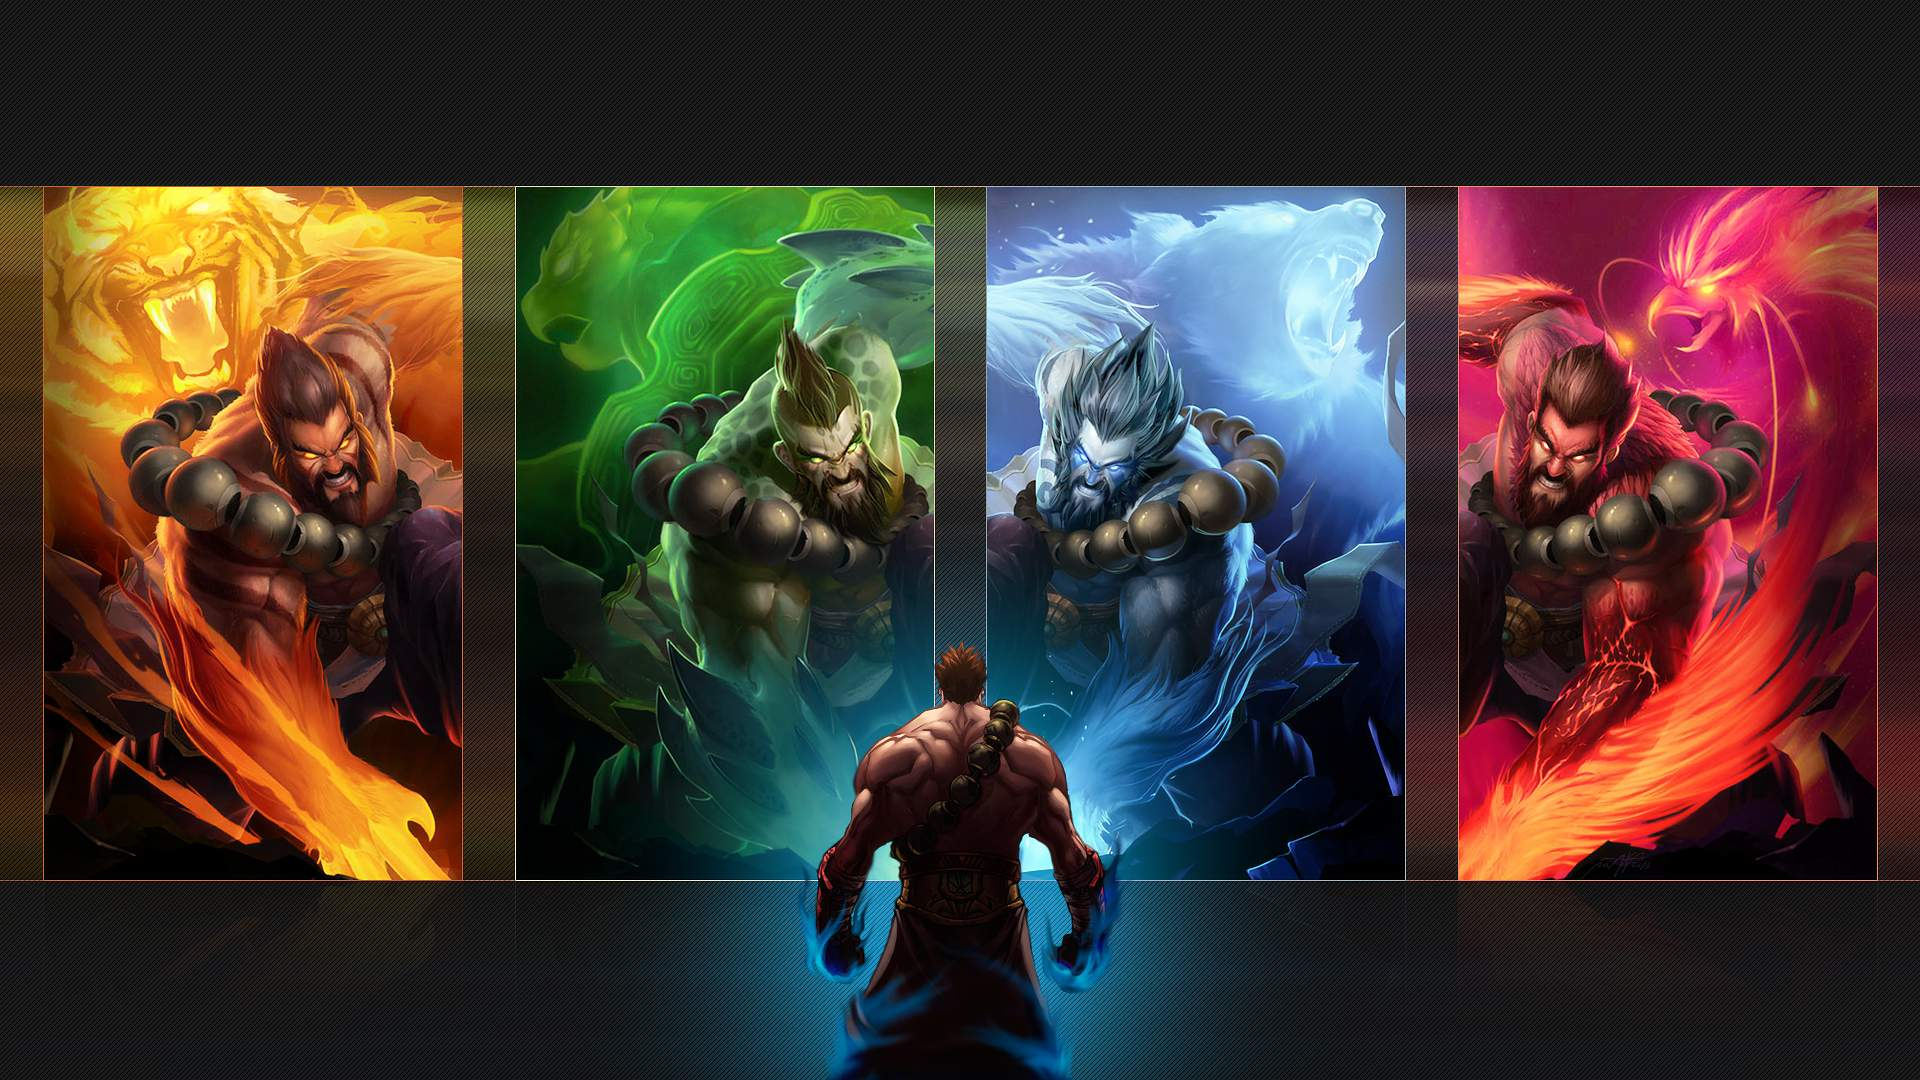
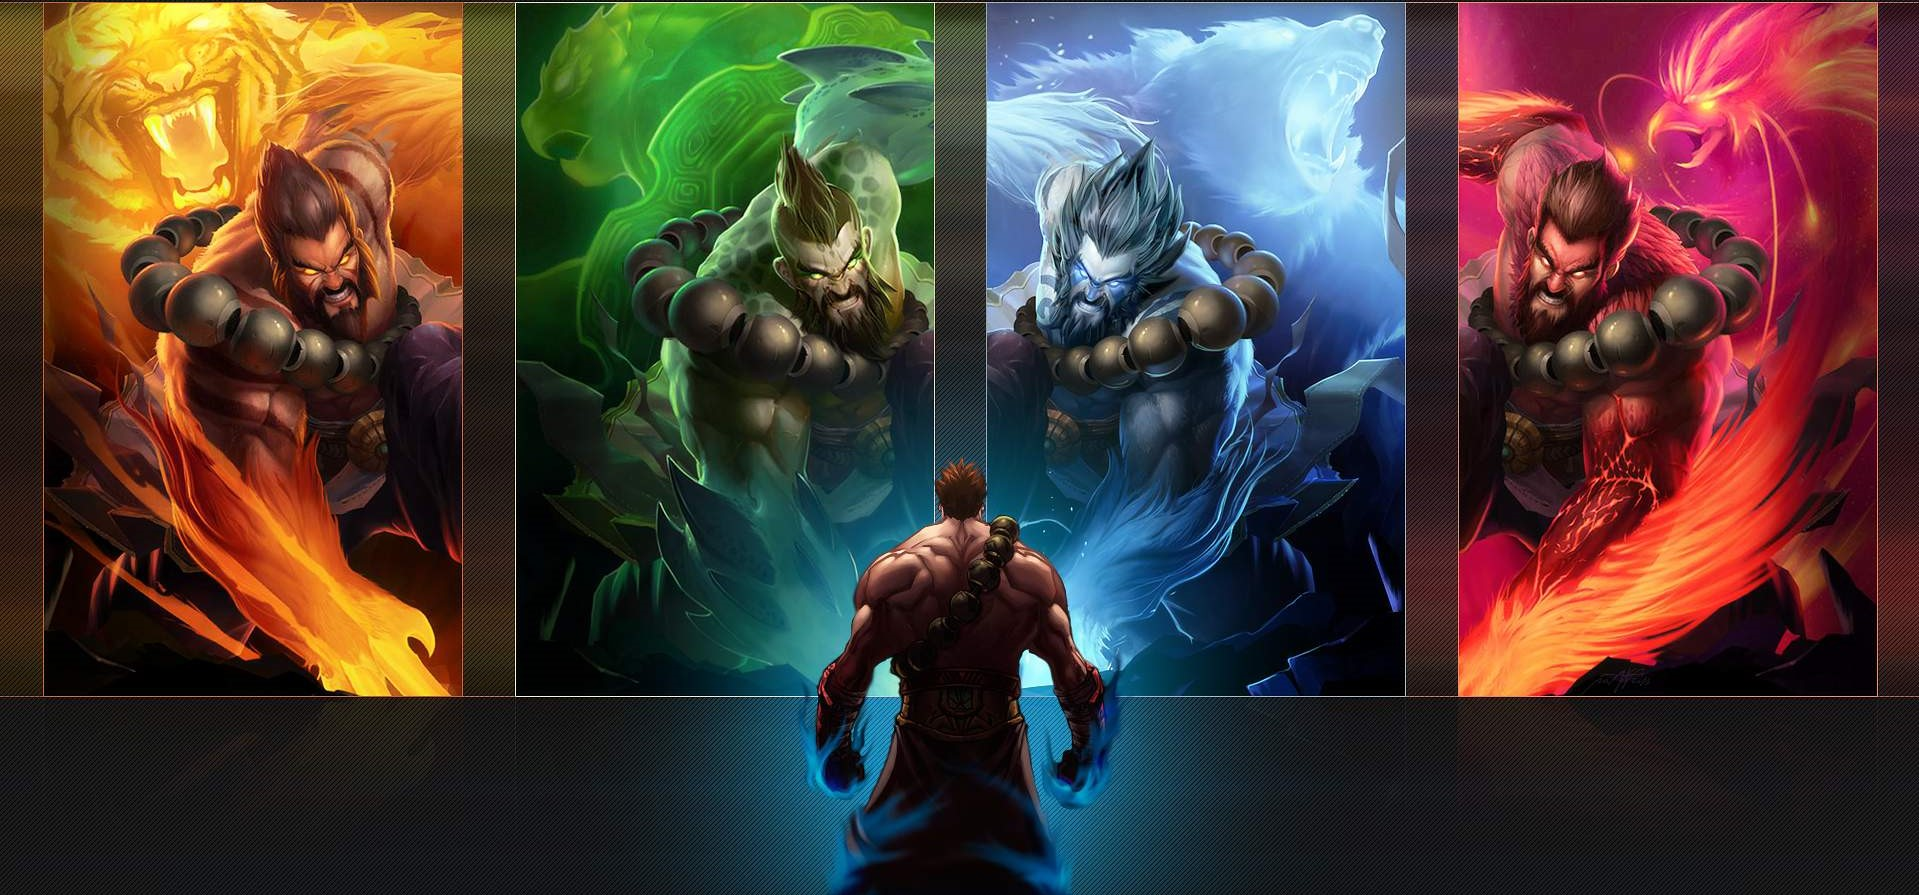
added footer + font awesome

diff --git a/src/Components/fotter.css b/src/Components/fotter.css
@@ -1,0 +1,151 @@
+*{
+    margin: 0;
+    padding: 0;
+    box-sizing: border-box;
+    font-family: 'Poppins',sans-serif;
+}
+.footer-all{
+    display: flex;
+    justify-content: flex-end;
+    align-items: center;
+    flex-direction: column;
+    background: coral;
+}
+footer{
+    position: relative;
+    width: 100%;
+    height: auto;
+    padding: 50px 100px;
+    background: linear-gradient( rgba(0, 0, 0, 0.5), rgba(0, 0, 0, 0.5) ), url('img/img1.jpg');
+background-position: center;
+background-size: cover;
+    display: flex;
+    justify-content: space-between;
+    flex-wrap: wrap;
+}
+footer .container{
+    display: flex;
+    justify-content: space-between;
+    flex-wrap: wrap;
+    flex-direction: row;
+
+}
+footer .container .aboutus{
+    margin-right: 30px;
+}
+footer .container .aboutus{
+    width: 40%;
+}
+footer .container  h2{
+    position: relative;
+    color: rgb(0, 217, 255);
+    font-weight: 500;
+    margin-bottom: 15px;
+}
+footer h2::before{
+    content: '';
+    position: absolute;
+    bottom: -5px;
+    left: 0;
+    width: 50px;
+    height: 2px;
+    background: cyan;
+}
+footer p{
+    color: rgb(255, 255, 255);
+}
+.sci{
+    margin-top: 20px;
+    display: flex;
+}
+.sci li{
+    list-style: none;
+}
+.sci li a{
+    color: rgb(253, 253, 253);
+    display: inline-block;
+    width: 40px;
+    height: 40px;
+    background: rgb(255, 255, 255);
+    display: flex;
+    justify-content: center;
+    align-items: center;
+    margin-right: 10px;
+    text-decoration: none;
+    border-radius: 4px;
+}
+.sci li a:hover{
+    background: rgb(0, 252, 218);
+}
+
+.sci li a .fa{
+    color: rgb(255, 5, 5);
+    font-size: 25px;
+}
+.quicklinks{
+    position: relative;
+    width: 25%;
+
+}
+.quicklinks ul li{
+    list-style: none;
+}
+.quicklinks ul li a{
+    color: rgb(255, 255, 255);
+    text-decoration: none;
+    margin-bottom: 10px;
+    display: inline-block;
+}
+.quicklinks ul li a:hover{
+    color: rgb(255, 121, 121);
+}
+
+.contact-info{
+    width: calc(35% -60px);
+    margin-right: 0 !important;
+}
+.contact-info .info{
+position: relative;
+}
+
+.contact-info .info li{
+    display: flex;
+    margin-bottom: 16px;
+}
+
+.contact-info .info li span:nth-child(1){
+    color: rgb(255, 0, 0);
+    font-size: 20px;
+    margin-right: 10px;
+}
+
+.contact-info .info li span{
+    color: rgb(255, 211, 255);
+}
+
+@media (max-width:900px) {
+    footer{
+        padding: 30px;
+
+    }
+    footer .container{
+        flex-direction: column;
+    }
+    footer .container .aboutus
+    {
+        margin-right: 0;
+        margin-bottom: 30px;
+        width: 100%;
+    }
+    footer .container .aboutus,
+    .quicklinks{
+        width: 100%;
+    }
+    
+}
+@media (max-width:1326px) {
+    .contact-info{
+        margin-top: 30px !important;
+    }
+    
+}

diff --git a/src/Components/Fotter.js b/src/Components/Fotter.js
@@ -1,0 +1,64 @@
+import React from 'react'
+import "./fotter.css"
+function Fotter() {
+    return (
+        <div className="footer-all">
+        <footer>
+            <div className="container">
+                <div className="aboutus">
+                    <h2>About us</h2>
+                    <p>
+
+                    Hey varun,
+                    Hope you had a great start to the week. We wanted to take some time to 
+                    let you know of a great opportunity to not only learn but earn and excel
+                    while working on tech that's the talk of the town. Over the past few months,
+                    rypto has seen a meteoric rise in mainstream consciousness but with surprisingly 
+                    few opportunities for interested folks to break into it. This makes us all the more
+                    </p>
+                    <ul className="sci">
+                    <li><a href="#"><i class="fa fa-youtube-play fa-lg" aria-hidden="true"></i></a></li>
+                    <li><a href="#"><i class="fa fa-handshake-o fa-lg" aria-hidden="true"></i></a></li>
+                    <li><a href="#"><i class="fa fa-facebook fa-lg" aria-hidden="true"></i></a></li>
+                    <li><a href="#"><i class="fa fa-instagram fa-lg" aria-hidden="true"></i></a></li>
+                    <li><a href="#"><i class="fa fa-twitter fa-lg" aria-hidden="true"></i></a></li>
+                    </ul>
+                </div>
+                <div className="quicklinks">
+                <h2>Quick Links</h2>
+                <ul>
+                    <li><a href="#">About</a></li>
+                    <li><a href="#">FAQ</a></li>
+                    <li><a href="#">PRIVACY POLICY</a></li>
+                    <li><a href="#">TERMS & CONDITION</a></li>
+                    <li><a href="#">CONTACT</a></li>
+                    <li><a href="#">HELP</a></li>
+                </ul>
+
+                </div>
+                <div className="contact-info">
+                    <h2>Contact us</h2>
+                    <ul className="info">
+                    <li>
+                        <span><i class="fa fa-map-marker" aria-hidden="true"></i></span>
+                        <span>Manhattan, located at 200 Park Avenue </span>
+                    </li>
+                    <li>
+                        <span><i class="fa fa-envelope-o" aria-hidden="true"></i></span>
+                        <span>Riotgamer@gmail.com</span>
+                    </li>
+                    <li>
+                        <span><i class="fa fa-phone" aria-hidden="true"></i></span>
+                        <span>+11 9878 7768 44</span>
+                    </li>
+
+                    </ul>
+                </div>
+            </div>
+
+        </footer>
+        </div>
+    )
+}
+
+export default Fotter

diff --git a/src/Components/style.css b/src/Components/style.css
@@ -93,7 +93,9 @@ background-position: center;
 
 /* AFTER THIS IS VANILLA TILT EFFECT */
 .backg-events{
-  background-image:url("./img/watchdogsgroup.jpg");
+  /* background-image:url("./img/watchdogsgroup.jpg"); */
+  background: linear-gradient( rgba(0, 0, 0, 0.5), rgba(0, 0, 0, 0.5) ), url('img/watchdogsgroup.jpg');
+
   background-size:cover;
   max-width:100vw;
   height:100vh
@@ -152,7 +154,7 @@ background-position: center;
     border-left: 1px solid rgba(255, 255, 255, 0.5);
     backdrop-filter: blur(3px);
     background-position: center;
-    opacity: .7;
+    opacity: .9;
   }
   .container .card:hover{
     z-index: 3;

diff --git a/public/index.html b/public/index.html
@@ -9,8 +9,8 @@
       name="description"
       content="Web site created using create-react-app"
     />
-    <link rel="apple-touch-icon" href="%PUBLIC_URL%/logo192.png" />
-
+   <link rel="apple-touch-icon" href="%PUBLIC_URL%/logo192.png" />
+   <link rel="stylesheet" href="https://cdnjs.cloudflare.com/ajax/libs/font-awesome/4.7.0/css/font-awesome.min.css">
     <link rel="manifest" href="%PUBLIC_URL%/manifest.json" />
     <title>RIOT</title>
     <script src="https://code.jquery.com/jquery-2.2.4.min.js"></script>

diff --git a/src/App.js b/src/App.js
@@ -3,8 +3,8 @@ import Login from './Components/Login';
 // import Navbar from './Components/Navbar';
 import News from './Components/News';
 import Events from './Components/Events';
-import './Components/style.css';
 
+import Fotter from './Components/Fotter';
 function App() {
   return (
     <div className="App">
@@ -14,6 +14,7 @@ function App() {
     <Events/>
     <News/>
     <Login/>
+    <Fotter/>
     </div>
   );
 }

diff --git a/src/Components/Login.js b/src/Components/Login.js
@@ -1,6 +1,7 @@
 import React from 'react';
 import multi1 from './img/multi1.jpg';
 // MATERIAL-UI IS REMOVED = PAPER, MAKESTYLES FUNCTION REMOVED 
+import './style.css';
 function Login() {
 
 	return <div 
